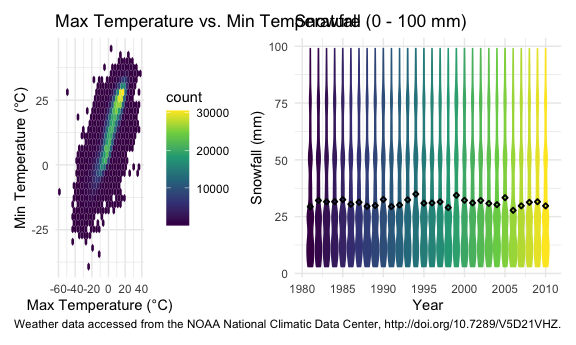
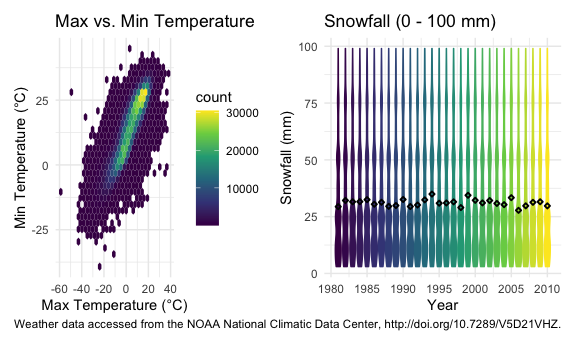
small edits to make the file look better

diff --git a/p8105_hw3_bc2918.md b/p8105_hw3_bc2918.md
@@ -160,9 +160,9 @@ variable indicating the nth week of the observation (`1 - 5`); the
 `day_id` is an integer variable indicating a unique id of the specific
 day from `1` to `35`; the `day` is an ordered factor variable indicate
 the day of the week; the `activity_count` is a double numeric variable
-represents the activity counts in each minute ranging from `1` to 8982;
-the `weekend` is a logical variable indicating whether the day is a
-weekend or not.
+represents the activity counts in each minute ranging from `1` to
+`8982`; the `weekend` is a logical variable indicating whether the day
+is a weekend or not.
 
 Using the tidied dataset, aggregate accross minutes to create a total
 activity variable for each day, and create a table showing these totals.
@@ -243,8 +243,8 @@ accel_df %>%
 
 <img src="p8105_hw3_bc2918_files/figure-gfm/unnamed-chunk-10-1.png" width="90%" />
 
-Generally, low activities levels could be observed from 23 p.m. to 5
-a.m., when it was probably that the man was asleep. The activity levels
+Generally, low activities levels could be observed from `23 p.m.` to `5
+a.m.`, when it was probably that the man was asleep. The activity levels
 peaked a little bit around the middle of each day (especially Sunday)
 and the end of each day (especially Friday), indicating there might be
 regular activities around that time.
@@ -330,9 +330,9 @@ tidy_naoo_df %>%
 
 <img src="p8105_hw3_bc2918_files/figure-gfm/unnamed-chunk-14-1.png" width="90%" />
 
-The average max temperature are well distributed around 0°C (\~ -10°C to
-10°C) and 27°C (\~ 20°C to 35°C) in January and July respectively across
-the years. Few outliers could be observed.
+The average max temperature are well distributed around `0°C (~ -10°C
+to 10°C)` and `27°C (~ 20°C to 35°C)` in January and July respectively
+across the years. Few outliers could be observed.
 
 Plot `tmax` vs. `tmin` for the full dataset.
 
@@ -344,15 +344,15 @@ tmax_tmin_plot =
   ggplot(aes(x = tmin, y = tmax)) + 
   geom_hex() +
   labs(
-    title = "Max Temperature vs. Min Temperature",
+    title = "Max vs. Min Temperature",
     x = "Max Temperature (°C)",
     y = "Min Temperature (°C)"
   ) +
   theme(legend.position = "right")
 ```
 
-Make a plot showing the distribution of snowfall values greater than 0
-and less than 100 separately by year.
+Make a plot showing the distribution of snowfall values greater than `0`
+and less than `100` separately by year.
 
 ``` r
 # use violin plot to show the distribution of snowfall in each year, mean indicated
@@ -376,10 +376,10 @@ snow_plot =
   theme(legend.position = "none")
 ```
 
-Show two plots.
+Show two plots with Patchwork.
 
 ``` r
-tmax_tmin_plot + snow_plot + plot_layout(widths = c(1, 3))
+tmax_tmin_plot + snow_plot + plot_layout(widths = c(1, 2))
 ```
 
 <img src="p8105_hw3_bc2918_files/figure-gfm/unnamed-chunk-17-1.png" width="90%" />
@@ -387,7 +387,7 @@ tmax_tmin_plot + snow_plot + plot_layout(widths = c(1, 3))
 The `tidy_naoo_df` contains `2595176` observations of `9` variables
 related to New York state weather data accessed from the NOAA National
 Climatic Data Center. The variable `id` contains id of `747` stations
-that the data was collected from. The variable `year` (1981-2010),
+that the data was collected from. The variable `year` (1981 - 2010),
 `month` and `day` contains the date information. The variable `prcp` is
 a double numeric variable containing data of precipitation with unit
 `mm`. The variable `snow` and `snwd` are integer variables containing
@@ -398,6 +398,7 @@ temperatures with unit `°C`.
 From the first plot in the two-panel plot, it could be observed that the
 tmax vs. tmin data points are generally distributed along a linear
 function with positive gradient and negative y-axis intercept, with a
-concentration between (-20°C, -10°C) and (20°C, 30°C). The second plot
-indicated that the distribution of snowfall amount in each year did not
-vary much and their mean values were pretty consistent around \~30 mm.
+concentration between `(-20°C, -10°C)` and `(20°C, 30°C)`. The second
+plot indicated that the distribution of snowfall amount in each year did
+not vary much and their mean values were pretty consistent around `~30
+mm`.
